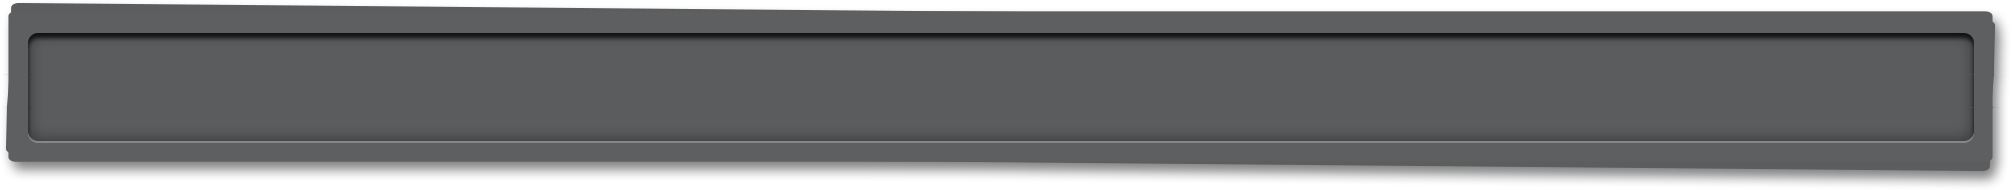
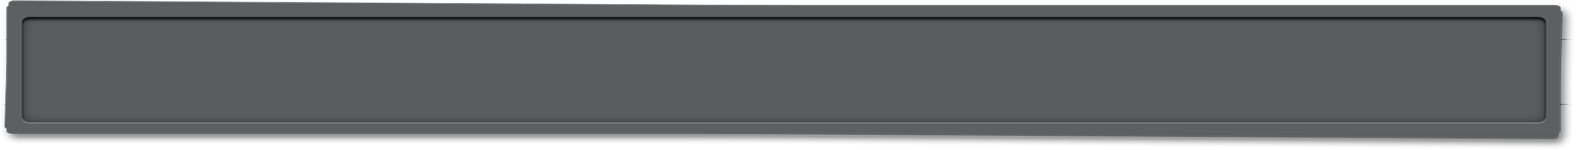
Remove title, change layout and use better defaults

Changed region(s): [[0.0, 0.0, 0.9949, 0.2133], [0.0, 0.8, 0.9949, 0.96], [0.0, 0.72, 0.9949, 0.7733]]

diff --git a/main.js b/main.js
@@ -35,16 +35,16 @@ define(['pie', 'piepiece', 'movingpiepiece', 'piesource', 'piehole', 'piesplitte
                   clc.addChild(background);
                   this.addChild(clc,0);
 
-                  this.prefill = false;
+                  this.prefill = true;
 
-                  this.questionDividend = 3;
-                  this.questionDivisor = 4;
+                  this.questionDividend = 1;
+                  this.questionDivisor = 2;
 
                   this.dividend = this.prefill ? this.questionDividend : 0;
                   this.divisor = this.prefill ? this.questionDivisor : 0;
                   this.splitted;
-                  this.pieSourceNodePosition = cc.p(130, 320);
-                  this.pieHoleNodePosition = cc.p(130, 60);
+                  this.pieSourceNodePosition = cc.p(130, 390);
+                  this.pieHoleNodePosition = cc.p(130, 110);
 
                   this.movingPiePiece = null;
                   this.selectedPie = null;
@@ -52,12 +52,12 @@ define(['pie', 'piepiece', 'movingpiepiece', 'piesource', 'piehole', 'piesplitte
                   var dragOnTabs = new cc.Sprite();
                   this.dragOnTabs = dragOnTabs;
                   dragOnTabs.initWithFile(window.bl.getResource('drag_tabs'));
-                  dragOnTabs.setPosition(dragOnTabs.getContentSize().width/2, 450);
+                  dragOnTabs.setPosition(dragOnTabs.getContentSize().width/2, 550);
                   this.addChild(dragOnTabs);
 
                   var questionBox = new cc.Sprite();
                   questionBox.initWithFile(window.bl.getResource('question_tray'));
-                  questionBox.setPosition(size.width/2, 610);
+                  questionBox.setPosition(size.width/2, 710);
                   this.addChild(questionBox);
 
                   this.questionLabel = new cc.LabelTTF.create(this.questionDividend + " divided by " + this.questionDivisor, "mikadoBold", 40);
@@ -66,7 +66,7 @@ define(['pie', 'piepiece', 'movingpiepiece', 'piesource', 'piehole', 'piesplitte
 
                   var menuBackground = new cc.Sprite();
                   menuBackground.initWithFile(window.bl.getResource('button_tabs'));
-                  menuBackground.setPosition(size.width - menuBackground.getContentSize().width/2, 450);
+                  menuBackground.setPosition(size.width - menuBackground.getContentSize().width/2, 550);
                   this.addChild(menuBackground);
 
                   var resetUnpressedTexture = window.bl.getResource('reset_button');
@@ -193,7 +193,7 @@ define(['pie', 'piepiece', 'movingpiepiece', 'piesource', 'piehole', 'piesplitte
                         rowsNode.addChild(pieRowNodes[i]);
                   };
 
-                  pieNode.setContentSize(cc.SizeMake(800, 230));
+                  pieNode.setContentSize(cc.SizeMake(800, 1000));
 
                   return [pieNode, pieArray];
             },
